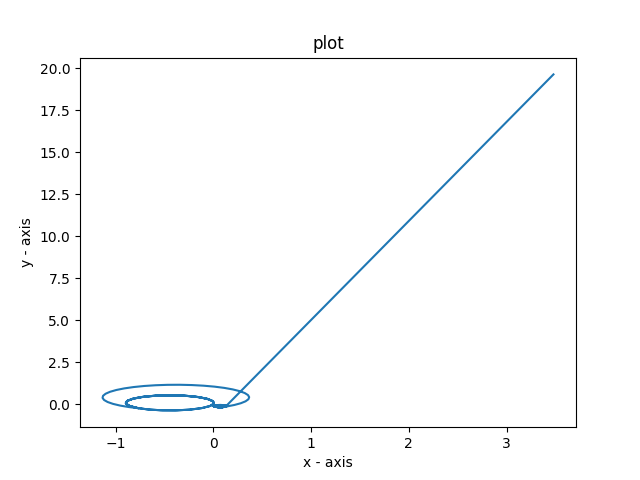
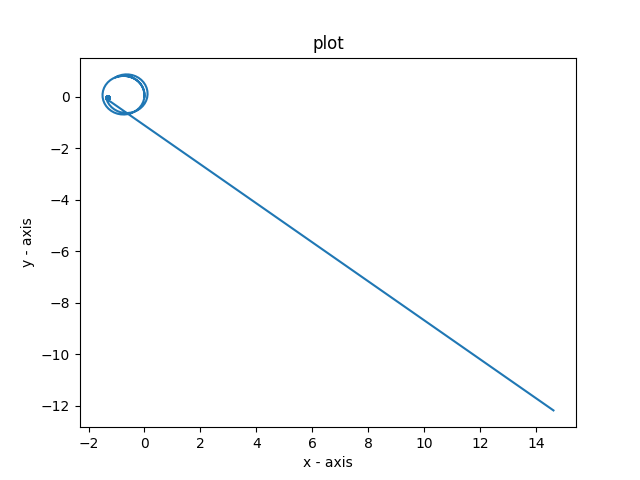
Fixed velocity issue, added problem 1 plot, updated README

diff --git a/hw.py b/hw.py
@@ -56,7 +56,7 @@ def problem1():
     # section 1
     duration = 5
     lwv = 1
-    rwv = 2
+    rwv = 1.5
     currXPos, currYPos, currTheta, x, y, theta, time = doInstruction(duration, lwv, rwv, currXPos, currYPos, currTheta, x, y)
 
     # section 2
@@ -71,7 +71,7 @@ def problem1():
     rwv = -2
     currXPos, currYPos, currTheta, x, y, theta, time = doInstruction(duration, lwv, rwv, currXPos, currYPos, currTheta, x, y)
 
-    # section 4
+    # # section 4
     duration = 10
     lwv = 2
     rwv = 2
